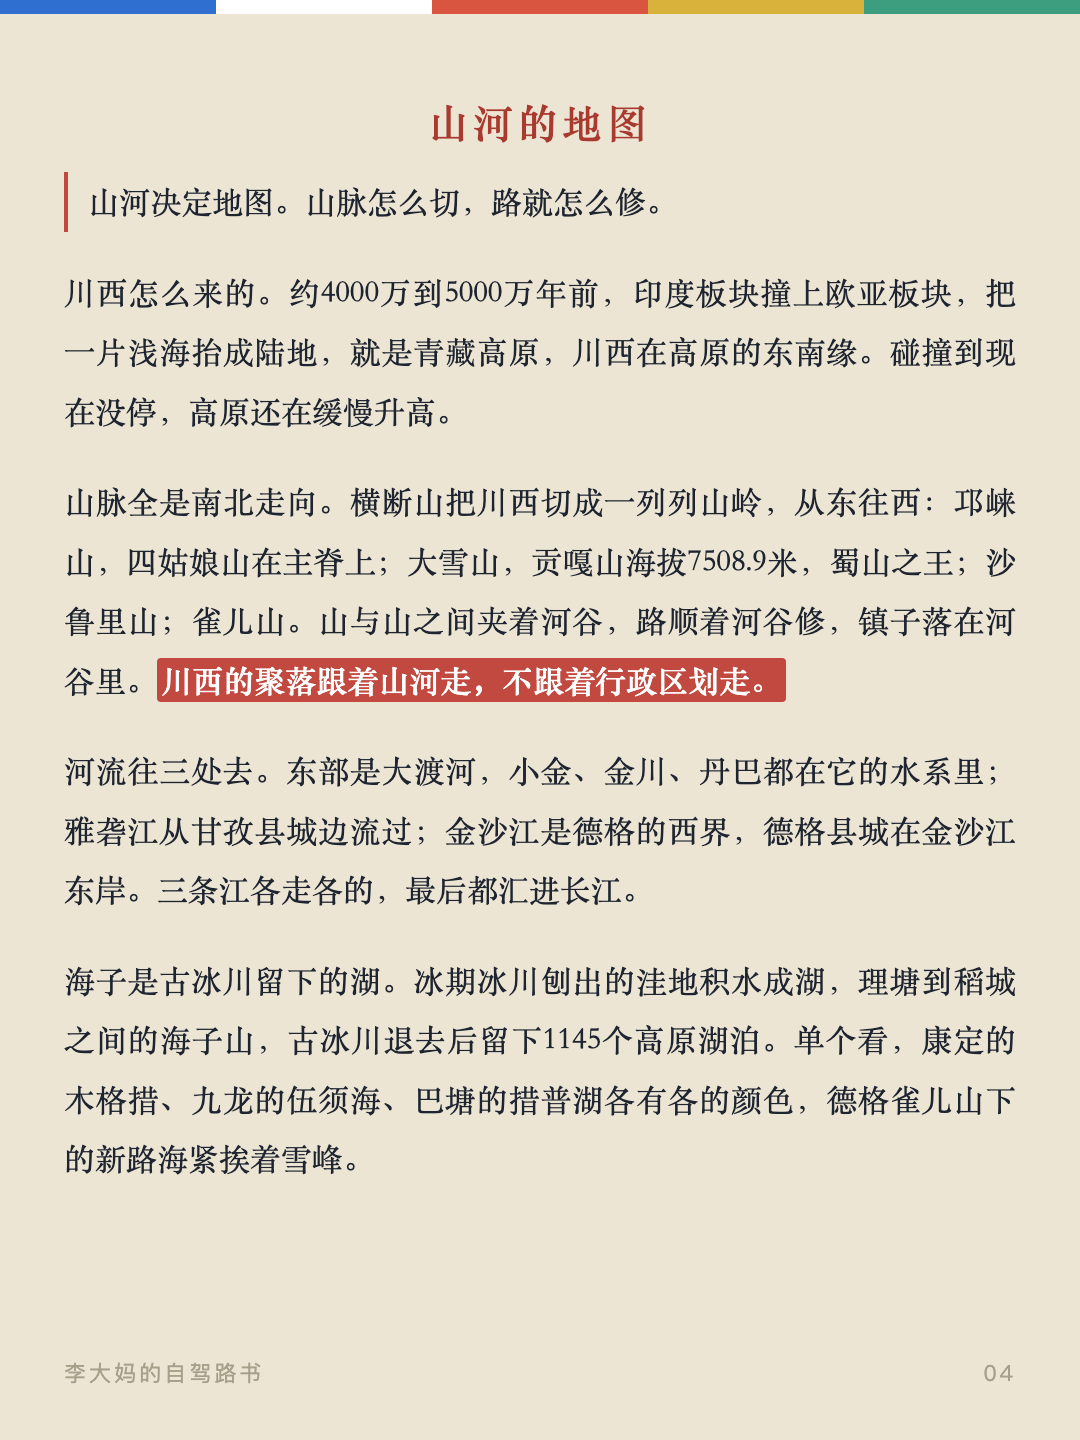
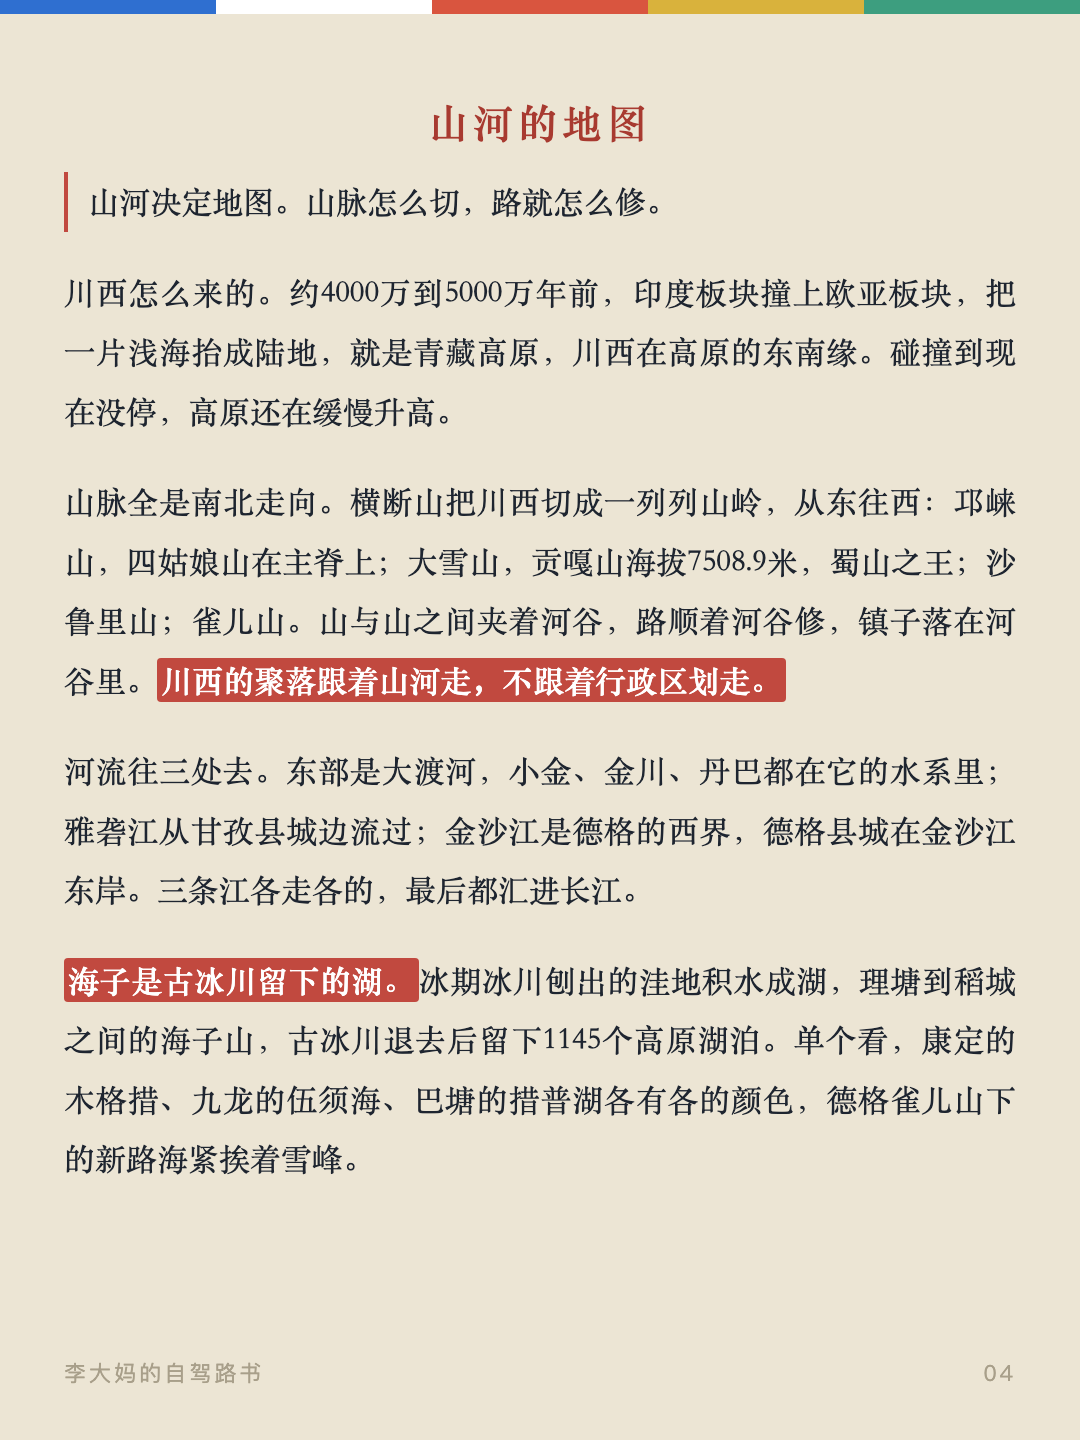
高亮海子是古冰川留下的湖

Changed region(s): [[0.0611, 0.6562, 0.7639, 0.7188], [0.7944, 0.6562, 0.8861, 0.6875]]

diff --git a/cards.html b/cards.html
@@ -129,7 +129,7 @@
 
 <div class="card" id="card3"><div class="flag" aria-hidden="true"><span style="background:var(--flag-blue)"></span><span style="background:var(--flag-white)"></span><span style="background:var(--flag-red)"></span><span style="background:var(--flag-yellow)"></span><span style="background:var(--flag-green)"></span></div><div class="card__inner"><h2>高原的秩序</h2><p class="card__lead">海拔决定秩序。</p><p>进川西先认海拔。<strong>3000米是一道门槛</strong>，多数人的高反从这里开始。行程按海拔排，不按景点排：一天的路程控制在两三小时山路，下午留白看天，天气不对就提前收车。景点不会消失，路况和天气才是当天的变量。</p><p>窗口期。<strong>5到6月、9到10月中是全年最稳的时段</strong>。雨季6到8月以夜雨为主，白天多数能走。冬季也能走，但救援半径长，一台车陷在无人垭口，代价远超省下的时间。</p><p>防高反。从低到高慢慢爬，头两天不在3500米以上过夜。氧气不足的典型信号是头痛、睡不着、没胃口，多数人两三天能适应。乙酰唑胺遵医嘱提前吃，布洛芬缓解头痛，红景天提前一周吃，只作辅助。指夹式血氧仪测血氧，<strong>掉到90%以下就停，不硬撑</strong>。夜里头痛加重、白天精神很差、走路发飘，是危险信号，撤到低海拔。</p><p>补给认准县城。<strong>进县城加满油</strong>，一离开县城就默认补给消失，往深处走，一律当天往返。离线地图出发前下好，<strong>自救物资可以不用，但不能没有</strong>。冬季走，车上常备防滑链。</p><div class="card__foot"><span>李大妈的自驾路书</span><span>03</span></div></div></div>
 
-<div class="card" id="card4"><div class="flag" aria-hidden="true"><span style="background:var(--flag-blue)"></span><span style="background:var(--flag-white)"></span><span style="background:var(--flag-red)"></span><span style="background:var(--flag-yellow)"></span><span style="background:var(--flag-green)"></span></div><div class="card__inner"><h2>山河的地图</h2><p class="card__lead">山河决定地图。山脉怎么切，路就怎么修。</p><p>川西怎么来的。约4000万到5000万年前，印度板块撞上欧亚板块，把一片浅海抬成陆地，就是青藏高原，川西在高原的东南缘。碰撞到现在没停，高原还在缓慢升高。</p><p>山脉全是南北走向。横断山把川西切成一列列山岭，从东往西：邛崃山，四姑娘山在主脊上；大雪山，贡嘎山海拔7508.9米，蜀山之王；沙鲁里山；雀儿山。山与山之间夹着河谷，路顺着河谷修，镇子落在河谷里。<strong>川西的聚落跟着山河走，不跟着行政区划走。</strong></p><p>河流往三处去。东部是大渡河，小金、金川、丹巴都在它的水系里；雅砻江从甘孜县城边流过；金沙江是德格的西界，德格县城在金沙江东岸。三条江各走各的，最后都汇进长江。</p><p>海子是古冰川留下的湖。冰期冰川刨出的洼地积水成湖，理塘到稻城之间的海子山，古冰川退去后留下1145个高原湖泊。单个看，康定的木格措、九龙的伍须海、巴塘的措普湖各有各的颜色，德格雀儿山下的新路海紧挨着雪峰。</p><div class="card__foot"><span>李大妈的自驾路书</span><span>04</span></div></div></div>
+<div class="card" id="card4"><div class="flag" aria-hidden="true"><span style="background:var(--flag-blue)"></span><span style="background:var(--flag-white)"></span><span style="background:var(--flag-red)"></span><span style="background:var(--flag-yellow)"></span><span style="background:var(--flag-green)"></span></div><div class="card__inner"><h2>山河的地图</h2><p class="card__lead">山河决定地图。山脉怎么切，路就怎么修。</p><p>川西怎么来的。约4000万到5000万年前，印度板块撞上欧亚板块，把一片浅海抬成陆地，就是青藏高原，川西在高原的东南缘。碰撞到现在没停，高原还在缓慢升高。</p><p>山脉全是南北走向。横断山把川西切成一列列山岭，从东往西：邛崃山，四姑娘山在主脊上；大雪山，贡嘎山海拔7508.9米，蜀山之王；沙鲁里山；雀儿山。山与山之间夹着河谷，路顺着河谷修，镇子落在河谷里。<strong>川西的聚落跟着山河走，不跟着行政区划走。</strong></p><p>河流往三处去。东部是大渡河，小金、金川、丹巴都在它的水系里；雅砻江从甘孜县城边流过；金沙江是德格的西界，德格县城在金沙江东岸。三条江各走各的，最后都汇进长江。</p><p><strong>海子是古冰川留下的湖。</strong>冰期冰川刨出的洼地积水成湖，理塘到稻城之间的海子山，古冰川退去后留下1145个高原湖泊。单个看，康定的木格措、九龙的伍须海、巴塘的措普湖各有各的颜色，德格雀儿山下的新路海紧挨着雪峰。</p><div class="card__foot"><span>李大妈的自驾路书</span><span>04</span></div></div></div>
 
 <div class="card" id="card5"><div class="flag" aria-hidden="true"><span style="background:var(--flag-blue)"></span><span style="background:var(--flag-white)"></span><span style="background:var(--flag-red)"></span><span style="background:var(--flag-yellow)"></span><span style="background:var(--flag-green)"></span></div><div class="card__inner"><p>川西地震多，因为它在鲜水河断裂带上。这条断裂带从中部纵贯，历史上强震不断。对旅行者，最实在的是<strong>路况随时可能因塌方管制</strong>；很多陡崖和河谷的走向，就是断裂带运动的痕迹。</p><p>植被随海拔分层，从山谷到垭口一路换。2500米以下是针阔混交林；2500到3500米是云杉冷杉的针叶林，高山杜鹃夹在林里；3500到4500米是高山灌丛和高山草甸，冬虫夏草、雪茶都长在这一层；4500米以上是流石滩，雪莲贴着碎石长。<strong>同一条路翻几座山，一天走完四个<span class="nowrap">植被带。</span></strong></p><p>吃的也跟海拔走。青稞是高原的当家作物，炒熟磨成糌粑，拌上酥油茶捏成团，是藏人的日常主食；酥油茶用砖茶和酥油熬，热量高、解渴御寒，当地有<strong>「宁可三日无肉，不可一日无茶」</strong>的说法。牦牛在海拔3500米以上放养，肉干、火锅、炖汤都常见；血肠是待客的上等菜，牛血或羊血和肉丁灌进小肠煮熟。松茸这类菌子长在森林里，集中在金沙江、雅砻江、大渡河上中游的高山峡谷，夏秋雨后出得多，炖鸡、涮锅都常吃。这些不用刻意找，路边饭馆的菜单上就有。</p><div class="card__foot"><span>李大妈的自驾路书</span><span>05</span></div></div></div>
 

diff --git a/index.html b/index.html
@@ -234,7 +234,7 @@
       <p>川西怎么来的。约4000万到5000万年前，印度板块撞上欧亚板块，把一片浅海抬成陆地，就是青藏高原，川西在高原的东南缘。碰撞到现在没停，高原还在缓慢升高。</p>
       <p>山脉全是南北走向。横断山把川西切成一列列山岭，从东往西：邛崃山，四姑娘山在主脊上；大雪山，贡嘎山海拔7508.9米，蜀山之王；沙鲁里山；雀儿山。山与山之间夹着河谷，路顺着河谷修，镇子落在河谷里。<strong>川西的聚落跟着山河走，不跟着行政区划走。</strong></p>
       <p>河流往三处去。东部是大渡河，小金、金川、丹巴都在它的水系里；雅砻江从甘孜县城边流过；金沙江是德格的西界，德格县城在金沙江东岸。三条江各走各的，最后都汇进长江。</p>
-      <p>海子是古冰川留下的湖。冰期冰川刨出的洼地积水成湖，理塘到稻城之间的海子山，古冰川退去后留下1145个高原湖泊。单个看，康定的木格措、九龙的伍须海、巴塘的措普湖各有各的颜色，德格雀儿山下的新路海紧挨着雪峰。</p>
+      <p><strong>海子是古冰川留下的湖。</strong>冰期冰川刨出的洼地积水成湖，理塘到稻城之间的海子山，古冰川退去后留下1145个高原湖泊。单个看，康定的木格措、九龙的伍须海、巴塘的措普湖各有各的颜色，德格雀儿山下的新路海紧挨着雪峰。</p>
       <p>川西地震多，因为它在鲜水河断裂带上。这条断裂带从中部纵贯，历史上强震不断。对旅行者，最实在的是<strong>路况随时可能因塌方管制</strong>；很多陡崖和河谷的走向，就是断裂带运动的痕迹。</p>
       <p>植被随海拔分层，从山谷到垭口一路换。2500米以下是针阔混交林；2500到3500米是云杉冷杉的针叶林，高山杜鹃夹在林里；3500到4500米是高山灌丛和高山草甸，冬虫夏草、雪茶都长在这一层；4500米以上是流石滩，雪莲贴着碎石长。<strong>同一条路翻几座山，一天走完四个植被带，别处南北几千公里才有的植被变化，在这里按海拔一层层排</strong>。</p>
       <p>吃的也跟海拔走。青稞是高原的当家作物，炒熟磨成糌粑，拌上酥油茶捏成团，是藏人的日常主食；酥油茶用砖茶和酥油熬，热量高、解渴御寒，当地有<strong>「宁可三日无肉，不可一日无茶」</strong>的说法。牦牛在海拔3500米以上放养，肉干、火锅、炖汤都常见；血肠是待客的上等菜，牛血或羊血和肉丁灌进小肠煮熟。松茸这类菌子长在森林里，集中在金沙江、雅砻江、大渡河上中游的高山峡谷，夏秋雨后出得多，炖鸡、涮锅都常吃。这些不用刻意找，路边饭馆的菜单上就有。</p>

diff --git a/gen_cards.py b/gen_cards.py
@@ -43,7 +43,7 @@ BODY_STREAM = [
   ('p', '川西怎么来的。约4000万到5000万年前，印度板块撞上欧亚板块，把一片浅海抬成陆地，就是青藏高原，川西在高原的东南缘。碰撞到现在没停，高原还在缓慢升高。'),
   ('p', '山脉全是南北走向。横断山把川西切成一列列山岭，从东往西：邛崃山，四姑娘山在主脊上；大雪山，贡嘎山海拔7508.9米，蜀山之王；沙鲁里山；雀儿山。山与山之间夹着河谷，路顺着河谷修，镇子落在河谷里。<strong>川西的聚落跟着山河走，不跟着行政区划走。</strong>'),
   ('p', '河流往三处去。东部是大渡河，小金、金川、丹巴都在它的水系里；雅砻江从甘孜县城边流过；金沙江是德格的西界，德格县城在金沙江东岸。三条江各走各的，最后都汇进长江。'),
-  ('p', '海子是古冰川留下的湖。冰期冰川刨出的洼地积水成湖，理塘到稻城之间的海子山，古冰川退去后留下1145个高原湖泊。单个看，康定的木格措、九龙的伍须海、巴塘的措普湖各有各的颜色，德格雀儿山下的新路海紧挨着雪峰。'),
+  ('p', '<strong>海子是古冰川留下的湖。</strong>冰期冰川刨出的洼地积水成湖，理塘到稻城之间的海子山，古冰川退去后留下1145个高原湖泊。单个看，康定的木格措、九龙的伍须海、巴塘的措普湖各有各的颜色，德格雀儿山下的新路海紧挨着雪峰。'),
   ('p', '川西地震多，因为它在鲜水河断裂带上。这条断裂带从中部纵贯，历史上强震不断。对旅行者，最实在的是<strong>路况随时可能因塌方管制</strong>；很多陡崖和河谷的走向，就是断裂带运动的痕迹。'),
   ('p', '植被随海拔分层，从山谷到垭口一路换。2500米以下是针阔混交林；2500到3500米是云杉冷杉的针叶林，高山杜鹃夹在林里；3500到4500米是高山灌丛和高山草甸，冬虫夏草、雪茶都长在这一层；4500米以上是流石滩，雪莲贴着碎石长。<strong>同一条路翻几座山，一天走完四个<span class="nowrap">植被带。</span></strong>'),
   ('p', '吃的也跟海拔走。青稞是高原的当家作物，炒熟磨成糌粑，拌上酥油茶捏成团，是藏人的日常主食；酥油茶用砖茶和酥油熬，热量高、解渴御寒，当地有<strong>「宁可三日无肉，不可一日无茶」</strong>的说法。牦牛在海拔3500米以上放养，肉干、火锅、炖汤都常见；血肠是待客的上等菜，牛血或羊血和肉丁灌进小肠煮熟。松茸这类菌子长在森林里，集中在金沙江、雅砻江、大渡河上中游的高山峡谷，夏秋雨后出得多，炖鸡、涮锅都常吃。这些不用刻意找，路边饭馆的菜单上就有。'),
